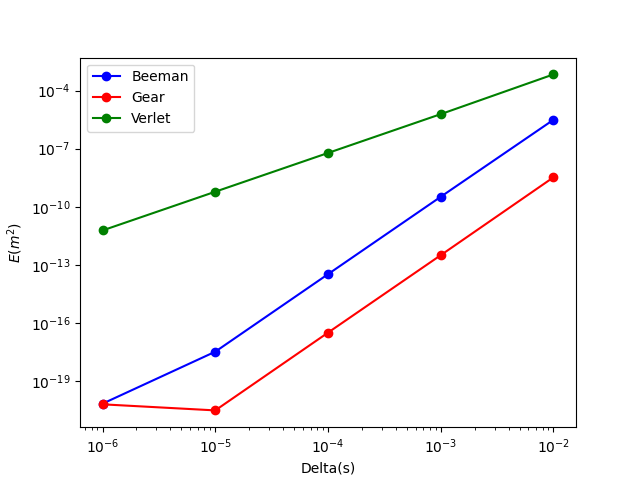
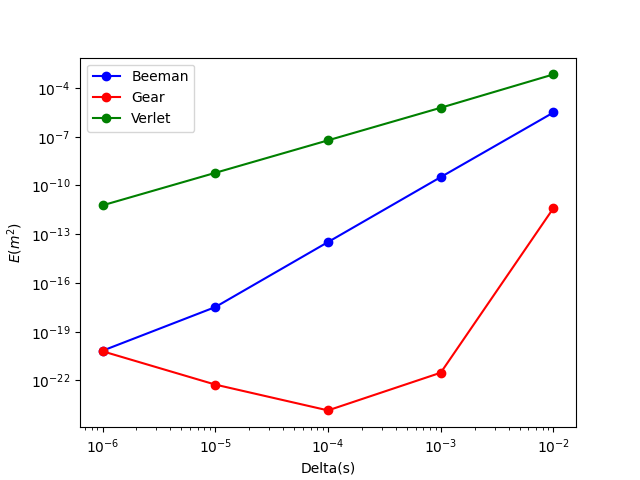
fix: gear predictor initial values

diff --git a/src/main/java/ar/edu/itba/ss/oscillator/algorithms/GearPredictorCorrector.java b/src/main/java/ar/edu/itba/ss/oscillator/algorithms/GearPredictorCorrector.java
@@ -24,9 +24,9 @@ public class GearPredictorCorrector implements OscillatorAlgorithm {
     private final double alpha5 = 1/60.0;
 
     public GearPredictorCorrector(Oscillator oscillator){
-        this.r3 = -(oscillator.getK() / oscillator.getMass()) * oscillator.getVelocity();
-        this.r4 = Math.pow((oscillator.getK() / oscillator.getMass()), 2) * oscillator.getAcceleration();
-        this.r5 = Math.pow((oscillator.getK() / oscillator.getMass()), 2) * this.r3;
+        this.r3 = (- oscillator.getK() * oscillator.getVelocity() - oscillator.getGamma() * oscillator.getAcceleration()) / oscillator.getMass();
+        this.r4 = (- oscillator.getK() * oscillator.getAcceleration() - oscillator.getGamma() * r3) / oscillator.getMass();
+        this.r5 = (- oscillator.getK() * r3 - oscillator.getGamma() * r4) / oscillator.getMass();
         this.rp0 = 0;
         this.rp1 = 0;
         this.rp2 = 0;
